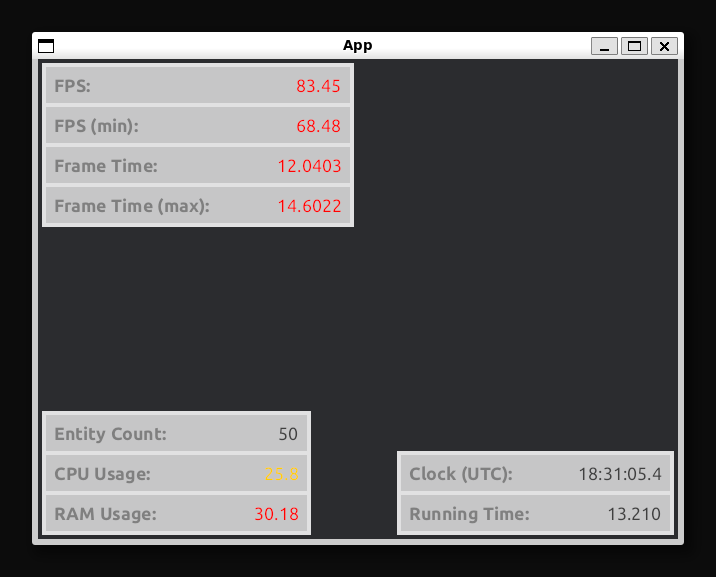
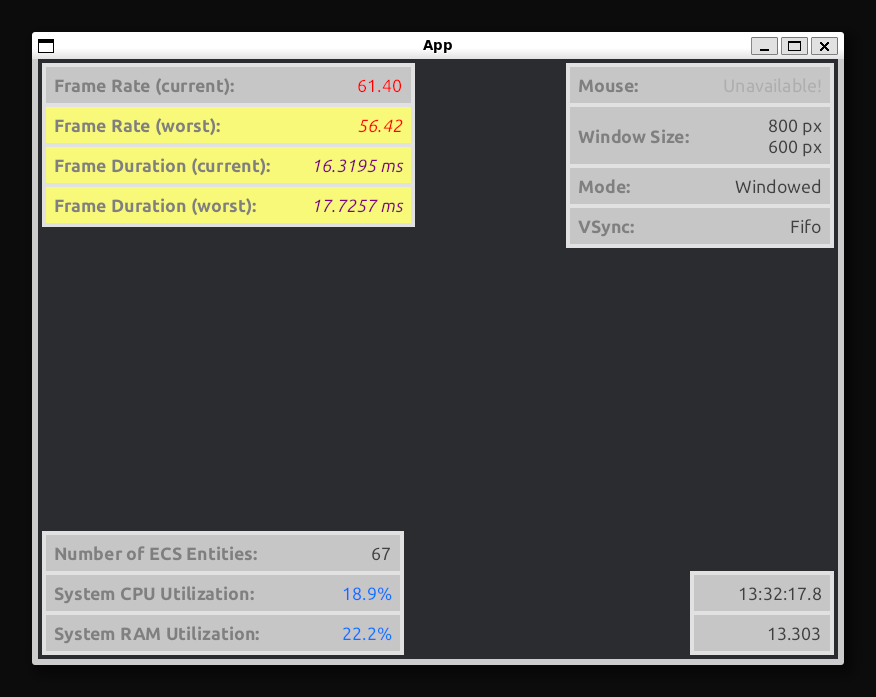
Version bump, update changelog, readme, screenshots

diff --git a/CHANGELOG.md b/CHANGELOG.md
@@ -2,8 +2,42 @@
 
 Notable user-facing changes with each release version will be described in this file.
 
+## [0.2.0]: 2024-03-21
+
+Added:
+ - `PerfUiRoot.inner_background_color_highlight`: different background color for highlighted entries.
+ - `PerfUiRoot.display_labels`: can be used to disable the labels column and show bare values.
+ - `PerfUiRoot.layout_horizontal`: display entries horizontally instead of vertically.
+ - [`fps_minimalist`](examples/fps_minimalist.rs) example, shows how to make a minimal FPS counter.
+ - `label` field on all built-in entry types, to allow customizable label strings.
+ - Built-in entries can now display units (opt-out) with their values, where relevant.
+ - `PerfUiEntryCursorPosition` built-in entry.
+ - `PerfUiEntryWindowResolution` built-in entry.
+ - `PerfUiEntryWindowMode` built-in entry.
+ - `PerfUiEntryWindowPresentMode` built-in entry.
+ - `PerfUiEntryFixedTimeStep` built-in entry.
+ - `PerfUiEntryFixedOverstep` built-in entry.
+ - `PerfUiEntry::width_hint` optional method. If implemented, allows ensuring the UI is correctly
+   sized and the values are correctly aligned at all times.
+ - `utils::width_hint_pretty_*` helper functions for values formatted using `utils::format_pretty_*`.
+ - `utils::ColorGradient` helper to allow for custom gradients / color interpolation.
+
+Changed:
+ - `enable_{color,highlight}` and `threshold_*` fields on built-in entry types that support
+   coloring/highlighting based on value, have been replaced with `color_gradient` to allow full customization.
+ - `PerfUiEntry::update_value` now takes `&self`. It is no longer allowed to mutate the component.
+ - `PerfUiEntry::label` now returns `&str` instead of `String`.
+
+Fixed:
+ - The UI will now correctly update itself if you change any parameters after it has already been spawned.
+ - UI entries will now correctly disappear if you remove their PerfUIEntry component.
+
+Removed:
+ - `utils::ryg_gradient_{up,down}`. Use the new `utils::ColorGradient` instead.
+
 ## [0.1.0]: 2024-03-19
 
 Initial Release
 
+[0.2.0]: https://github.com/IyesGames/iyes_perf_ui/tree/v0.2.0
 [0.1.0]: https://github.com/IyesGames/iyes_perf_ui/tree/v0.1.0

diff --git a/README.md b/README.md
@@ -12,7 +12,7 @@ Bevy Compatibility:
 
 | Bevy Version | Plugin Version |
 |--------------|----------------|
-| `0.13`       | `0.1`          |
+| `0.13`       | `0.2`,`0.1`    |
 
 ---
 
@@ -25,7 +25,9 @@ The goal of this crate is to make it as useful as possible for any Bevy project:
  - Customizable appearance/styling (see [`settings`](examples/settings.rs) example)
  - Modular! You decide what info you want to display!
    - Choose any combination of predefined entries for:
-     - Framerate (FPS), Frame Time, Frame Count, ECS Entity Count, CPU Usage, RAM Usage, Wall Clock, Running Time
+     - Framerate (FPS), Frame Time, Frame Count, ECS Entity Count, CPU Usage, RAM Usage,
+       Wall Clock, Running Time, Fixed Time Step, Fixed Overstep,
+       Cursor Position, Window Resolution, Window Mode, Present Mode
    - Implement your own custom entries to display anything you like!
      - (see [`custom_minimal`](examples/custom_minimal.rs) and [`custom`](examples/custom.rs) examples)
  - Support for highlighting values using a custom font or color!
@@ -44,8 +46,8 @@ commands.spawn((
 ));
 ```
 
+(or instead of `default`, you can configure the parameters in any of these structs)
+
 ![Screenshot of the simple example showing default configuration](screenshots/simple.png)
 
 ![Screenshot of the settings example showing multiple UIs with custom configuration](screenshots/settings.png)
-
-(or instead of `default`, you can configure the parameters in any of these structs)
